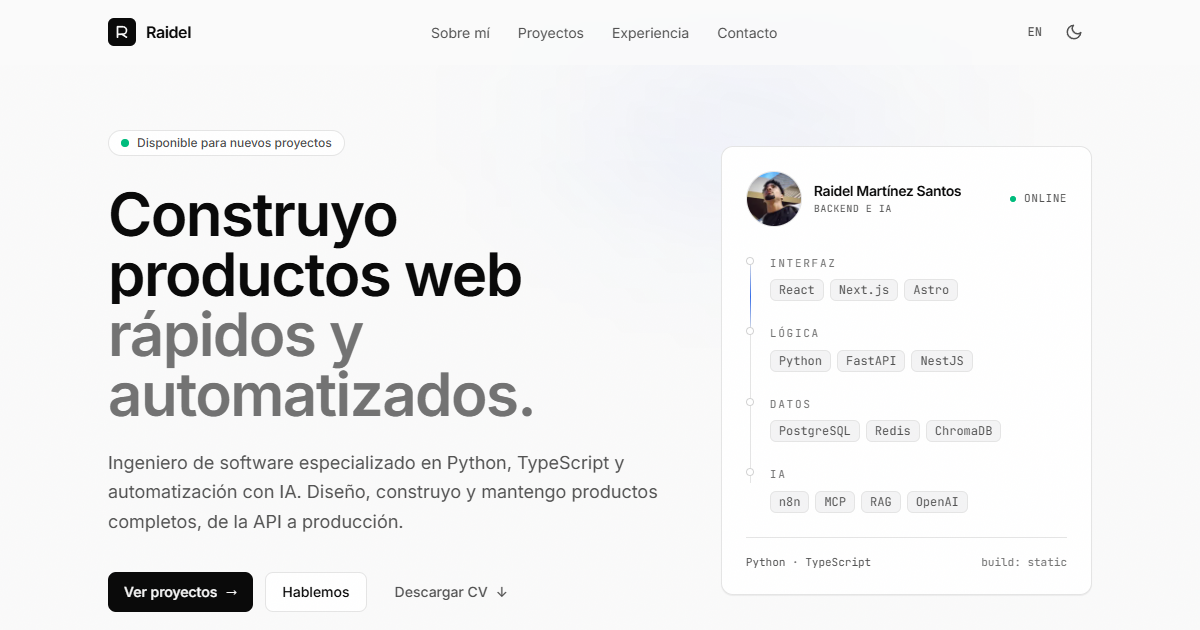
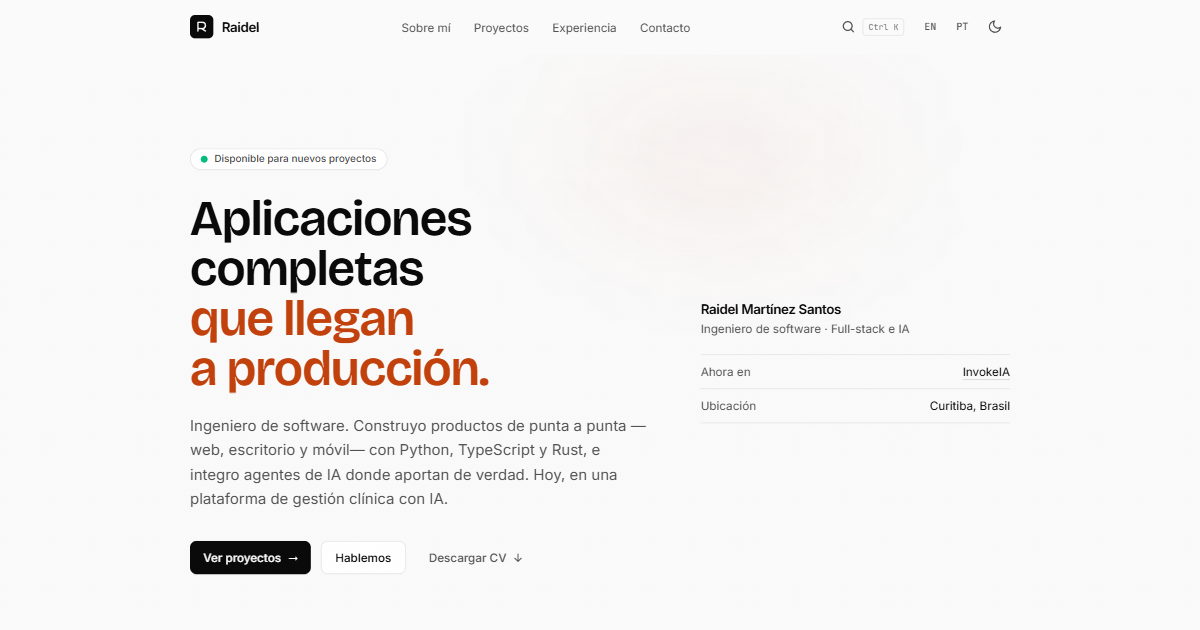
feat: add LICENSE and README files; update project metadata and images

diff --git a/README.md b/README.md
@@ -1,0 +1,130 @@
+<div align="center">
+
+# Raidel Martínez Santos — Portfolio
+
+**Software Engineer · Full-stack & AI**
+
+Sitio personal trilingüe (ES · EN · PT), estático y rápido, construido con Astro.
+
+[**raidel-martinez.dev**](https://raidel-martinez.dev) · [LinkedIn](https://www.linkedin.com/in/raidel-martinez-santos) · [GitHub](https://github.com/YoshiLoL0526)
+
+![Astro](https://img.shields.io/badge/Astro-7-BC52EE?logo=astro&logoColor=white)
+![TypeScript](https://img.shields.io/badge/TypeScript-6-3178C6?logo=typescript&logoColor=white)
+![Tailwind CSS](https://img.shields.io/badge/Tailwind_CSS-4-06B6D4?logo=tailwindcss&logoColor=white)
+![i18n](https://img.shields.io/badge/i18n-ES_·_EN_·_PT-222)
+![License: MIT](https://img.shields.io/badge/license-MIT-green)
+
+<br />
+
+<img src="src/assets/projects/portfolio.png" alt="Captura del portfolio" width="860" />
+
+</div>
+
+---
+
+## ✦ Qué incluye
+
+- **Tres idiomas** con rutas estáticas (`/es/`, `/en/`, `/pt/`), metadatos por idioma y `hreflang`.
+- **Content collections** tipadas para proyectos y experiencia: cada entrada es un Markdown por idioma.
+- **Proyectos filtrables** por búsqueda, categoría, tecnología y orden, con animación FLIP.
+- **Paleta de comandos** (<kbd>Ctrl</kbd>/<kbd>⌘</kbd> + <kbd>K</kbd>) para saltar a secciones, abrir proyectos, cambiar idioma o tema.
+- **Bit**, un pequeño robot guía que acompaña el scroll y explica cada sección.
+- **View Transitions** con portadas compartidas entre listado y detalle, y reveals al hacer scroll.
+- **Modo claro/oscuro** sobre un sistema de tokens propio.
+- **CV descargable** en los tres idiomas, generado desde una única fuente de datos.
+- **SEO**: sitemap, `robots.txt`, JSON-LD, imagen Open Graph y URLs canónicas.
+- **Accesibilidad**: foco visible, buen contraste, `prefers-reduced-motion` y contenido legible sin JavaScript.
+
+## ✦ Stack
+
+| Área        | Herramientas                                                             |
+| ----------- | ------------------------------------------------------------------------ |
+| Framework   | [Astro 7](https://astro.build) (salida estática)                          |
+| Lenguaje    | TypeScript                                                               |
+| Estilos     | Tailwind CSS 4 + tokens CSS propios                                      |
+| Tipografía  | Inter, JetBrains Mono y Bricolage Grotesque (Fontsource)                 |
+| Iconos      | Simple Icons                                                             |
+| Integración | `@astrojs/sitemap`                                                       |
+| Hosting     | Hostinger (Apache/LiteSpeed) con `.htaccess` incluido en `public/`       |
+
+## ✦ Empezar
+
+Requiere **Node.js ≥ 22.23.4** y **pnpm**.
+
+```bash
+pnpm install
+pnpm dev        # servidor de desarrollo en http://localhost:4321
+pnpm build      # astro check + build estático en dist/
+pnpm preview    # sirve dist/ localmente
+pnpm cv         # regenera los CV en PDF (ES/EN/PT)
+```
+
+## ✦ Estructura
+
+```text
+src/
+├── components/        # Secciones y piezas de UI (.astro)
+├── content/
+│   ├── projects/      # es/ · en/ · pt/  → un .md por proyecto e idioma
+│   └── experience/    # es/ · en/ · pt/  → un .md por puesto e idioma
+├── data/              # Datos personales, enlaces, skills y tecnologías
+├── i18n/              # Textos de la interfaz y utilidades de rutas
+├── layouts/           # Layout base (meta, SEO, tema)
+├── lib/               # Consultas a las colecciones
+├── pages/             # Rutas: /[lang]/, /[lang]/projects/, /[lang]/projects/[slug]/
+└── styles/            # Tokens y estilos globales
+scripts/
+├── cv-data.mjs        # Contenido del CV en los tres idiomas
+└── build-cv.mjs       # HTML → PDF con Chrome/Edge headless
+public/                # favicon, og.png, robots.txt, .htaccess y CV en PDF
+```
+
+## ✦ Editar contenido
+
+**Añadir un proyecto:** crea el mismo archivo en `src/content/projects/{es,en,pt}/` con este frontmatter:
+
+```yaml
+---
+title: Mi proyecto
+description: Una línea que resuma qué hace.
+tags: [Astro, TypeScript]
+category: web          # web · api · mobile · tool · ai · game
+cover: ../../../assets/projects/mi-proyecto.png   # opcional
+repo: https://github.com/...                     # opcional
+demo: https://...                                # opcional
+date: 2026-01-01
+order: 10              # orden en la home y el listado
+color: blue            # pink · blue · green · yellow · purple
+---
+```
+
+**Experiencia:** igual, en `src/content/experience/{es,en,pt}/`, con `role`, `company`, `start`, `end` (vacío = puesto actual) y `type` (`work` o `education`).
+
+**Datos personales y enlaces:** [`src/data/site.ts`](src/data/site.ts).
+**Textos de la interfaz:** [`src/i18n/ui.ts`](src/i18n/ui.ts).
+
+El esquema de las colecciones está en [`src/content.config.ts`](src/content.config.ts), y `astro check` valida cada entrada al compilar.
+
+## ✦ CV en PDF
+
+`pnpm cv` genera `public/cv-es.pdf`, `public/cv-en.pdf` y `public/cv-pt.pdf` a partir de [`scripts/cv-data.mjs`](scripts/cv-data.mjs). Usa Chrome o Edge en modo headless e incrusta las fuentes del proyecto, así que el resultado es el mismo en cualquier máquina.
+
+## ✦ Despliegue
+
+```bash
+pnpm build
+```
+
+Sube el contenido de `dist/` a la raíz del hosting. El `.htaccess` (copiado desde `public/`) fuerza HTTPS, quita el `www`, sirve la página 404 propia, añade cabeceras de seguridad y cachea de forma permanente los assets con hash de `/_astro/`.
+
+## ✦ Licencia
+
+El código está bajo licencia [MIT](LICENSE): úsalo como base para tu propio portfolio.
+
+El contenido personal (textos de proyectos y experiencia, CV, fotografía, capturas y datos de `src/data/site.ts`) no está incluido en la licencia. Si reutilizas el proyecto, sustitúyelo por el tuyo.
+
+---
+
+<div align="center">
+<sub>Diseñado y desarrollado por <a href="https://raidel-martinez.dev">Raidel Martínez Santos</a>.</sub>
+</div>

diff --git a/src/content/projects/en/portfolio.md b/src/content/projects/en/portfolio.md
@@ -4,6 +4,8 @@ description: "Trilingual site built with Astro, content collections, View Transi
 tags: [Astro, TypeScript, Tailwind CSS, View Transitions]
 category: web
 cover: ../../../assets/projects/portfolio.png
+repo: https://github.com/YoshiLoL0526/my-portfolio
+demo: https://raidel-martinez.dev
 date: 2026-11-03
 order: 16
 color: green
@@ -18,4 +20,4 @@ This portfolio is a project too: a trilingual static site designed to show the w
 - Downloadable CV in Spanish, English and Portuguese, JSON-LD, OG image, sitemap, robots and per-language metadata.
 - Accessibility details: visible focus, contrast, `prefers-reduced-motion` and content visible without JS.
 
-The cover is a screenshot of the site itself; the code is not published, but the site is.
+The cover is a screenshot of the site itself; the code is public on GitHub.

diff --git a/src/content/projects/es/portfolio.md b/src/content/projects/es/portfolio.md
@@ -4,6 +4,8 @@ description: "Sitio trilingüe construido con Astro, content collections, View T
 tags: [Astro, TypeScript, Tailwind CSS, View Transitions]
 category: web
 cover: ../../../assets/projects/portfolio.png
+repo: https://github.com/YoshiLoL0526/my-portfolio
+demo: https://raidel-martinez.dev
 date: 2026-11-03
 order: 16
 color: green
@@ -18,4 +20,4 @@ Este portfolio es también un proyecto: un sitio estático trilingüe pensado pa
 - CV descargable en español, inglés y portugués, JSON-LD, OG image, sitemap, robots y metadatos por idioma.
 - Detalles de accesibilidad: foco visible, contraste, `prefers-reduced-motion` y contenido visible sin JS.
 
-La portada es una captura del propio sitio; el código no está publicado, pero la web sí.
+La portada es una captura del propio sitio; el código es público en GitHub.

diff --git a/src/content/projects/pt/portfolio.md b/src/content/projects/pt/portfolio.md
@@ -4,6 +4,8 @@ description: "Site trilíngue construído com Astro, content collections, View T
 tags: [Astro, TypeScript, Tailwind CSS, View Transitions]
 category: web
 cover: ../../../assets/projects/portfolio.png
+repo: https://github.com/YoshiLoL0526/my-portfolio
+demo: https://raidel-martinez.dev
 date: 2026-11-03
 order: 16
 color: green
@@ -18,4 +20,4 @@ Este portfólio também é um projeto: um site estático trilíngue pensado para
 - CV para download em espanhol, inglês e português, JSON-LD, imagem OG, sitemap, robots e metadados por idioma.
 - Detalhes de acessibilidade: foco visível, contraste, `prefers-reduced-motion` e conteúdo visível sem JS.
 
-A capa é uma captura do próprio site; o código não está publicado, mas o site sim.
+A capa é uma captura do próprio site; o código é público no GitHub.
